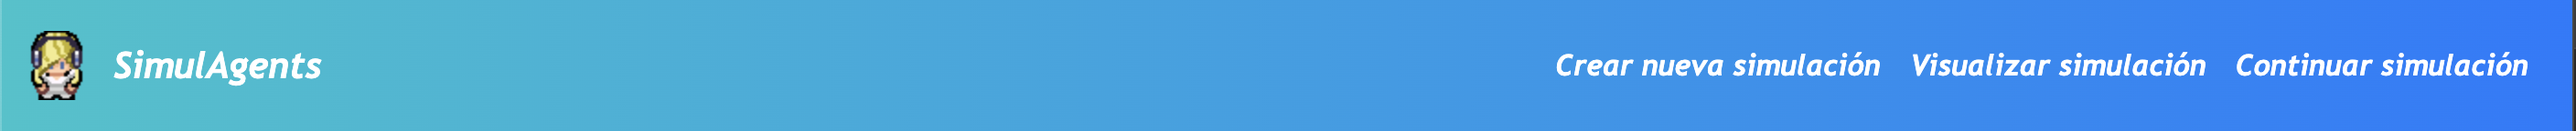
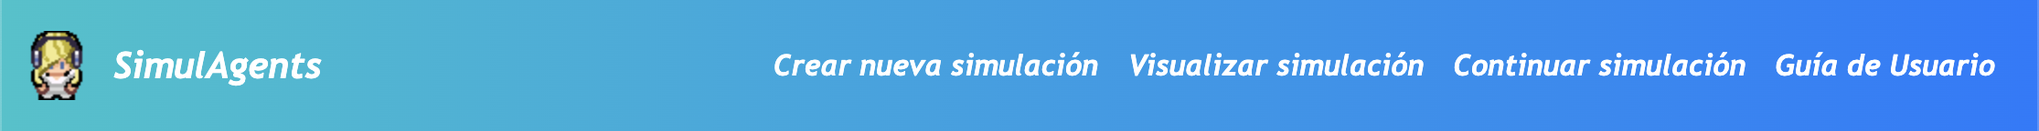
Apartado capitulo 6 memoria

Changed region(s): [[0.3713, 0.0, 1.0, 1.0], [0.0, 0.2222, 0.1547, 0.7778]]

diff --git a/TFGTeXiS-UTF8/Capitulos/Interfaz.tex b/TFGTeXiS-UTF8/Capitulos/Interfaz.tex
@@ -5,8 +5,46 @@ En cuanto a la interfaz de la página web, uno de los principales objetivos del 
 
 El resultado de este objetivo está recogido en este capítulo. Para alcanzarlo, se han creado vistas completamente nuevas y se han modificado algunas de las vistas previamente existentes para simplificarlas o añadir funcionalidades.
 
-Atendiendo a la movilidad entre páginas, se ha implementado una barra de navegación, la cual compartirán todas las páginas y permitirá navegar entre las diferentes funcionalidades, como se puede apreciar en las figuras \ref{fig:navBarDesktop} y \ref{fig:navBarMobile}.
-\textcolor{red}{PONER LAS FOTOS CON LA GUÍA DE USUARIO}
+\section{Proceso de diseño de la interfaz}
+
+Para desarrollar estas vistas, se ha tenido en cuenta y dado un peso importante al desarrollo empleando el diseño centrado en el usuario, empleando los métodos de colaboración con potenciales clientes de la aplicación, análisis de otras herramientas similares y adaptando el diseño dependiendo del tamaño del dispositivo, como se explica en una de las guías sobre diseño centrado en el usuario \citep{pratt2012interactive}. El siguiente paso a tomar, según esta guía, es el de experimentación y validación con los usuarios finales, el cual se realizará una vez la aplicación esté en funcionamiento, pudiendo así adaptar los \textit{workflows}, botones o maquetación a un entorno más adaptado a los usuarios.
+
+Dentro de este ámbito de diseño centrado en el usuario, y como también se mencionó en el capítulo 2 (el Estado de la Cuestión), se ha tenido especial atención a la democratización del uso de esta aplicación, por lo que uno de los objetivos principales con el diseño era implementar una interfaz sencilla, usable e intuitiva para que cualquier usuario pudiera utilizarla fácilmente.
+
+Para demostrar el uso del diseño centrado en el usuario a lo largo de este proyecto, a continuación expondremos un ejemplo en el que se siguen los pasos claros de comprensión de la experiencia de usuario, especificación de las necesidades del usuario, diseño de la solución y evaluación de la misma en el ejemplo concreto del diseño de una simulación disponible en la vista de 'Visualizar Simulaciones', del cual se pueden ver capturas más abajo, en la correspondiente sección \ref{vistaVisSim}, que trata sobre esta vista.
+
+\begin{itemize}
+	
+	\item \textbf{Comprensión}: El primer paso para diseñar este apartado, al igual que todos los elementos de nuestra interfaz, fue el de la comprensión de cómo el usuario experimentará con el producto. Visto desde un punto de vista más general, dentro de la página de 'Visualizar simulaciones' habría una lista que contendría las simulaciones, el contenido en estas tarjetas debía ser limitado pero suficientemente explicativo para que el usuario lo comprendiese.
+	
+	\item \textbf{Especificación}: Una vez investigamos y comprendimos el flujo de experiencia de usuario para este elemento, y cómo se relaciona con  los demás elementos, se especifican los requerimientos de lo que esperaría ver un usuario si interactuase con este elemento. Como ya mencionamos, es importante que esta información sea breve pero explicativa.
+		
+	Por tanto, se decidió que este elemento contuviese la información básica para distinguir la simulación entre otras. Incluimos en este elemento información sobre el mapa, la simulación sobre la que está realizada, step en el que se desea comenzar la visualización, velocidad de reproducción, botón de inicio y resto de metainformación (como puede ser fecha y hora de inicio o resumen de la simulación).
+	
+	\item \textbf{Diseño}: Una vez comprendido el contexto y requerimientos de los usuarios, se pasa a la fase de diseño de la solución en sí. Como ya se conocía el contenido que debía tener, es necesario dividir la información en el reducido espacio de la tarjeta para que resulte atractivo y sencillo.
+	
+	La decisión que tomamos respecto a esto es indicar el mapa en la sección izquierda, el título en grande, diferenciando cada simulación y acompañado de un enlace a la simulación padre en pequeño. Después, habría dos inputs donde indicar el step y velocidad, junto con el botón de inicio. Por último, se ndicaría toda la metainformación y, si esta ocupase múltiples líneas, se permitiría el 'scroll' dentro de la tarjeta, para que no ocupe demasiado espacio vertical.
+	
+	\item \textbf{Evaluación}: Finalmente, una vez hemos construido el elemento, con la información especificada y el diseño pertinente, es necesario ratificar todo el conjunto para comprobar la validez. Esto se puede hacer mediante pruebar realizadas por nosotros mismos en etapas de desarrollo, mediante pruebas de conocidos, utilizando la aplicación por su cuenta e informando de los resultados, o con el producto final funcionando, recibiendo feedback de los usuarios reales y adaptando todo el proceso de diseño, cambiando lo necesario en cada paso.
+	
+\end{itemize}
+
+Estos cuatro pasos de diseño forman parte de del proceso de diesño que explica Google en su curso de diseño de UX profesional \footnote{\url{https://www.coursera.org/google-certificates/certificado-diseno-de-experiencia-del-usuario-ux}}, y se ven indicados en la figura \ref{fig:pasosDisenoUsuario}.
+
+\begin{figure}[h]
+	\centering
+	\includegraphics[width = 1\textwidth]{Imagenes/Vectorial/pasos_DCU.png}
+	\caption{Pasos para diseño centrado en el usuario según Google}
+	\label{fig:pasosDisenoUsuario}
+\end{figure}
+
+\section{Nuevas vistas}
+
+En esta sección se presentan las vistas creadas durante el desarrollo del trabajo, las cuales sirven de apoyo para ejecutar las funcionalidades, tanto nuevas como existentes, de la aplicación.
+
+Estas vistas no existían previamente en la aplicación, y se ha realizado un proceso de ingeniería inversa de las vistas preexistentes para poder adaptar las interfaces y que se comuniquen de manera efectiva con el back end.
+
+Primeramente, atendiendo a la movilidad entre páginas, se ha implementado una barra de navegación, la cual compartirán todas las páginas y permitirá navegar entre las diferentes funcionalidades, como se puede apreciar en las figuras \ref{fig:navBarDesktop}, \ref{fig:navBarMobile1} y \ref{fig:navBarMobile2}.
 
 \begin{figure}[h]
 	\centering
@@ -17,16 +55,17 @@ Atendiendo a la movilidad entre páginas, se ha implementado una barra de navega
 
 \begin{figure}[h]
 	\centering
-	\includegraphics[width = 1\textwidth]{Imagenes/Vectorial/navBarMobile.png}
+	\includegraphics[width = 1\textwidth]{Imagenes/Vectorial/navBarMobile1.png}
 	\caption{Barra de navegación en el formato para dispositivos móviles}
-	\label{fig:navBarMobile}
+	\label{fig:navBarMobile1}
 \end{figure}
 
-\section{Nuevas vistas}
-
-En esta sección se presentan las vistas creadas durante el desarrollo del trabajo, las cuales sirven de apoyo para ejecutar las funcionalidades, tanto nuevas como existentes, de la aplicación.
-
-Estas vistas no existían previamente en la aplicación, y se ha realizado un proceso de ingeniería inversa de las vistas preexistentes para poder adaptar las interfaces y que se comuniquen de manera efectiva con el back end.
+\begin{figure}[h]
+	\centering
+	\includegraphics[width = 1\textwidth]{Imagenes/Vectorial/navBarMobile2.png}
+	\caption{Barra de navegación en el formato para dispositivos móviles, con la barra de navegación desplegada}
+	\label{fig:navBarMobile2}
+\end{figure}
 
 \subsection{Vista de Crear nueva simulación}
 
@@ -50,18 +89,24 @@ Con esta información, se podrá inferir la personalidad completa de cada uno de
 
 Si se quisiera aportar un contexto general a toda la simulación, la solución sería indicarlo en los apartados de conocimiento aprendido y estado actual de todos los personajes. Si todos ellos tienen una pieza de conocimiento aprendido común, podrán inferir la situación en la que se encuentran e interactuar con los demás porque también estarán en la misma situación.
 
-Todas estos elementos gráficos se pueden apreciar en la figura \ref{fig:vistaCrearSimulacion}.
+Todos estos elementos gráficos se pueden apreciar en las figuras \ref{fig:vistaCrearSimulacion} y \ref{fig:vistaCrearSimulacionMobile}, donde se ve que el diseño es 'responsive' y se adapta a todo tipo de pantallas.
 
 \begin{figure}[h]
 	\centering
-	\includegraphics[width = 1\textwidth]{Imagenes/Vectorial/vistaCrearSimulacion.png}
+	\includegraphics[width = 1\textwidth]{Imagenes/Vectorial/crearSimu.png}
 	\caption{Versión de escritorio de la vista para crear una nueva simulación}
 	\label{fig:vistaCrearSimulacion}
 \end{figure}
 
-\textcolor{red}{CAMBIAR ESTA FOTO POR LA VISTA FINAL REAL}
+\begin{figure}[h]
+	\centering
+	\includegraphics[width = 0.7\textwidth]{Imagenes/Vectorial/crearSimuMobile.png}
+	\caption{Versión de móvil de la vista para crear una nueva simulación}
+	\label{fig:vistaCrearSimulacionMobile}
+\end{figure}
 
 \subsection{Vista de Visualizar simulación}
+\label{vistaVisSim}
 
 En esta vista es donde los usuarios pueden seleccionar las simulaciones a visualizar. Esto es, las que se han ejecutado y guardado para visualizarlas previamente. Una vez se selecciona una de estas vistas, se accede a la interfaz de visualización de una simulación, la cual está explicada en profundidad en la subsección  \ref{sec:vistaSimulacion}.
 
@@ -162,11 +207,14 @@ Una vez el usuario considera que ha terminado la simulación, tiene 3 diferentes
 
 \subsubsection{Botones de chat y susurro en la vista del personaje}
 
-Estos botones están en la sección de personajes. En cada tarjeta de personaje, habrá un botón de chat y otro de susurro. Al clicar en ellos automáticamente se detectará el personaje al cuál se quiere susurrar o con el que se quiere chatear en cada caso, y se procederá a ello.
+Estos botones están en la sección de personajes. En cada tarjeta de personaje, habrá un botón de chat y otro de susurro. Al clicar en ellos automáticamente se detectará el personaje al cual se quiere susurrar o con el que se quiere chatear en cada caso, y se procederá a ello.
+
+Estas dos funcionalidades son el ejemplo más claro y directo que hay en todo el presente trabajo del uso del procesamiento del lenguaje natural, que se comenta en el capítulo 2 (el Estado de la Cuestión). De todo el sistema, es la única funcionalidad que permite interactuar directamente con el modelo de lenguaje, el cual interpretará el lenguaje natural y lo procesará para devolver una respuesta. En el caso del chat, se comprende la petición del usuario, se interpreta, y se devuelve una respuesta sobre lo que responde el agente. Por otro lado, para el susurro, el usuario interactuará indicando una orden o directriz y el sistema la interpretará para que el usuario la tenga en cuenta y la realice en los siguientes steps de la simulación.
 
 El botón de susurro permite hablar directamente a los pensamientos del personaje e instarle a tomar ciertas decisiones o realizar ciertas acciones. Esta era una funcionalidad preexistente pero la hemos pasado completamente al front.
 
 Por su parte, el botón de chat abrirá una pantalla para chatear directamente con el personaje en tiempo real. Esta funcionalidad es novedosa y servirá para poder entrevisar a los personajes en cada punto de la simulación, viendo así sus cambios de ideas, pensamientos u opiniones a lo largo de la simulación.
 
+(\textcolor{red}{PONER LAS FIGURAS})
 
 

diff --git a/environment/frontend_server/translator/views.py b/environment/frontend_server/translator/views.py
@@ -344,7 +344,7 @@ def ver_simulacion(request):
                      "fork_sim_code": simu_meta['fork_sim_code'],
                      "start_time": simu_meta['start_date'],
                      "curr_time": simu_meta['curr_time'],
-                     "duration": f"{diff_time.days} dias, {diff_time.seconds // 3600} horas, {diff_time.seconds % 3600} segundos" }
+                     "duration": f"{diff_time.days} dias, {diff_time.seconds // 3600} horas" }
         info_demos.append(demo_dict)
     return info_demos
   

diff --git a/TFGTeXiS-UTF8/Cascaras/cover.tex b/TFGTeXiS-UTF8/Cascaras/cover.tex
@@ -82,7 +82,7 @@ Social phenomena emergence with Large Language Models
 %%%%%%%%%%%%%%%%%%%%%%%%%%%%%%%%%%%%%%%%%%%%%%%%%%%%%%%%%%%%%%%%%%%%%%
 % Descomentar para que ponga siempre la fecha actual
 %\fechaPublicacion{\today}
-\fechaPublicacion{\textcolor{red}{DIA de MES de AÑO}}
+\fechaPublicacion{27 de mayo de 2024}
 
 %%%%%%%%%%%%%%%%%%%%%%%%%%%%%%%%%%%%%%%%%%%%%%%%%%%%%%%%%%%%%%%%%%%%%%
 % Imagen de la portada (y escala)
